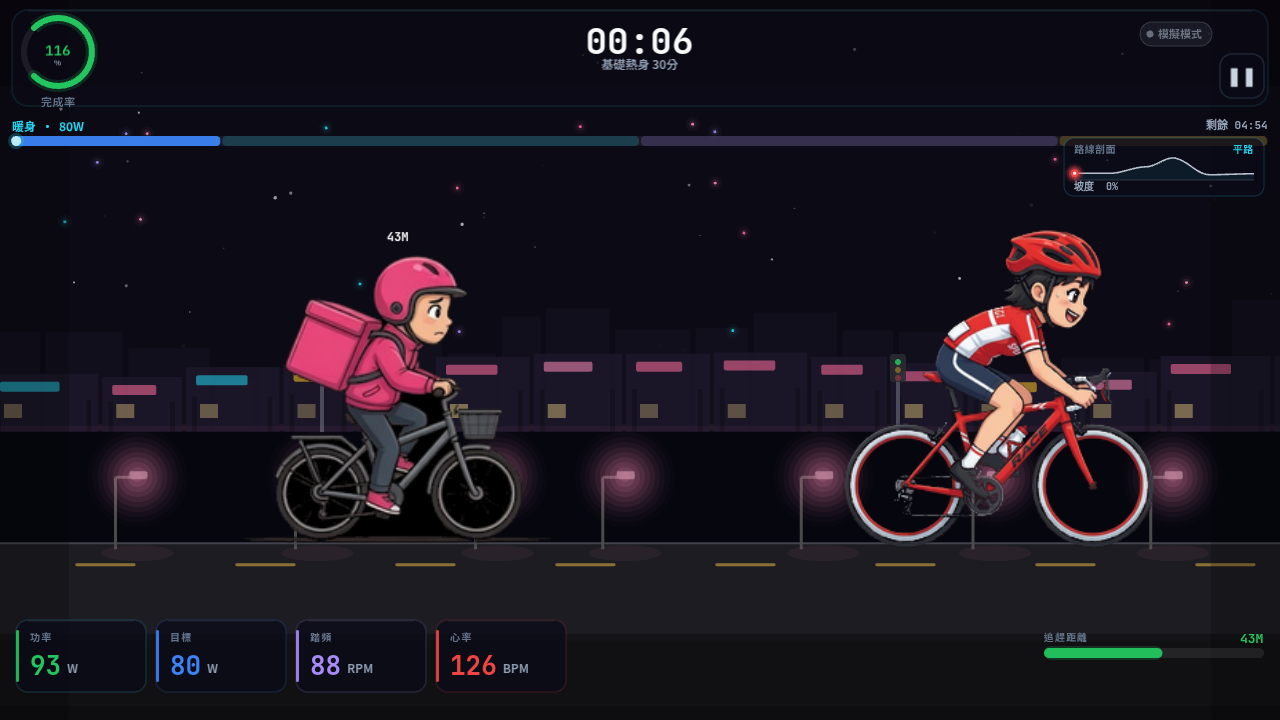
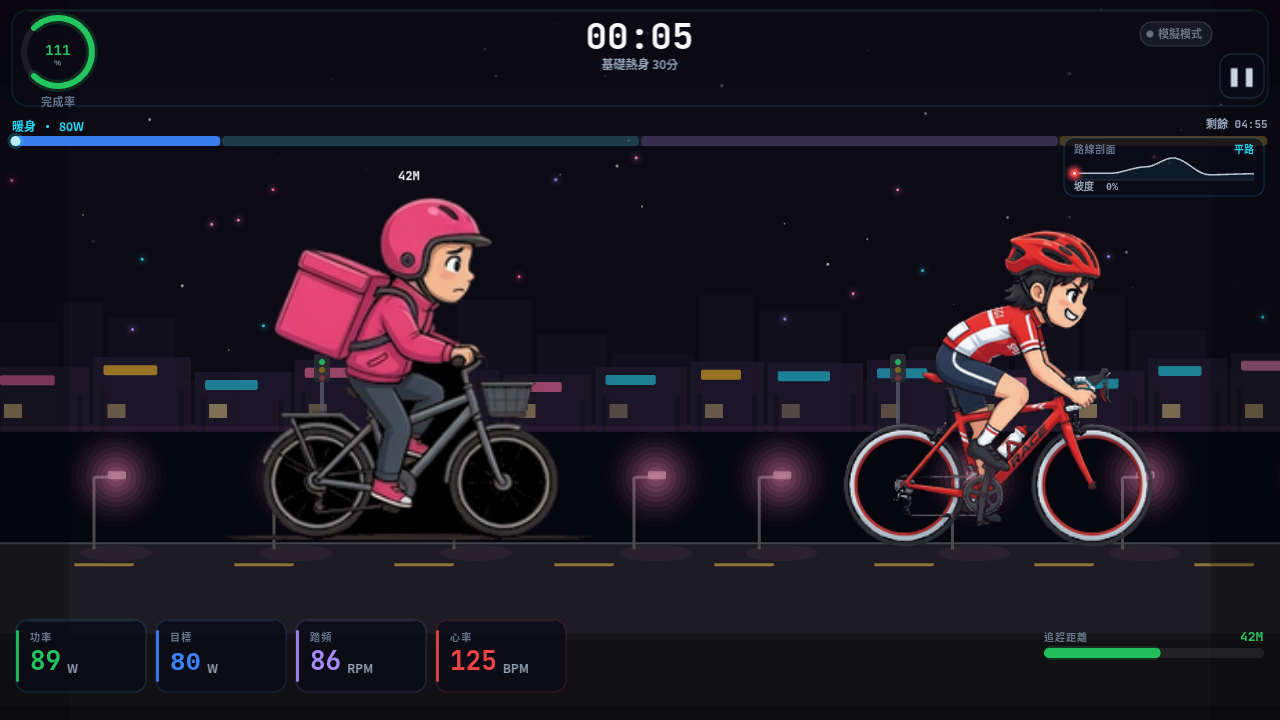
Scale up foodpanda and bikini chasers for chase presence
- Foodpanda 300→360 (peer delivery rider with bag)
- Bikini 300→340 (match rider scale with slight pressure)

diff --git a/src/renderer/game/themes.ts b/src/renderer/game/themes.ts
@@ -763,7 +763,8 @@ export const THEMES: Record<string, ChaseTheme> = {
       assetAlias: 'chaser-foodpanda',
       runFrames: FOODPANDA_RUN_FRAMES,
       attackFrames: FOODPANDA_ATTACK_FRAMES,
-      displayHeight: 300,
+      // 與騎士同級、保溫袋加大存在感
+      displayHeight: 360,
       tint: 0xffffff,
       scaleMul: 1,
     },
@@ -999,7 +1000,8 @@ export const THEMES: Record<string, ChaseTheme> = {
       assetAlias: 'chaser-bikini',
       runFrames: BIKINI_RUN_FRAMES,
       attackFrames: BIKINI_ATTACK_FRAMES,
-      displayHeight: 300,
+      // 女騎士與主角同量級，略大一點增加逼近感
+      displayHeight: 340,
       tint: 0xffffff,
       scaleMul: 1,
     },
